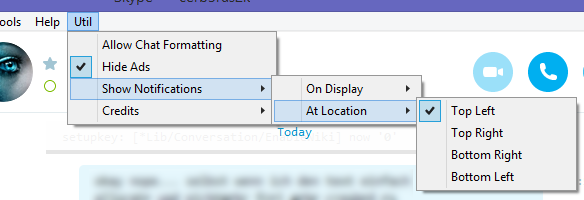
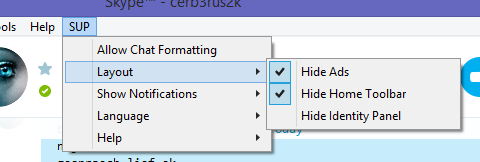
Changed menu name to "SUP"
... since "Util" was to ambiguous. This is not a final solution, but
will do for now.
Increased version number for new release build.
Updated screenshot.

diff --git a/src/sup_constants.h b/src/sup_constants.h
@@ -39,6 +39,6 @@ namespace SUP
 #define LANG_DEFAULT				LANG_ENGLISH
 
 // Version String
-#define SUP_VERSION L"1.2.1"
+#define SUP_VERSION L"1.3.0"
 
 #endif
